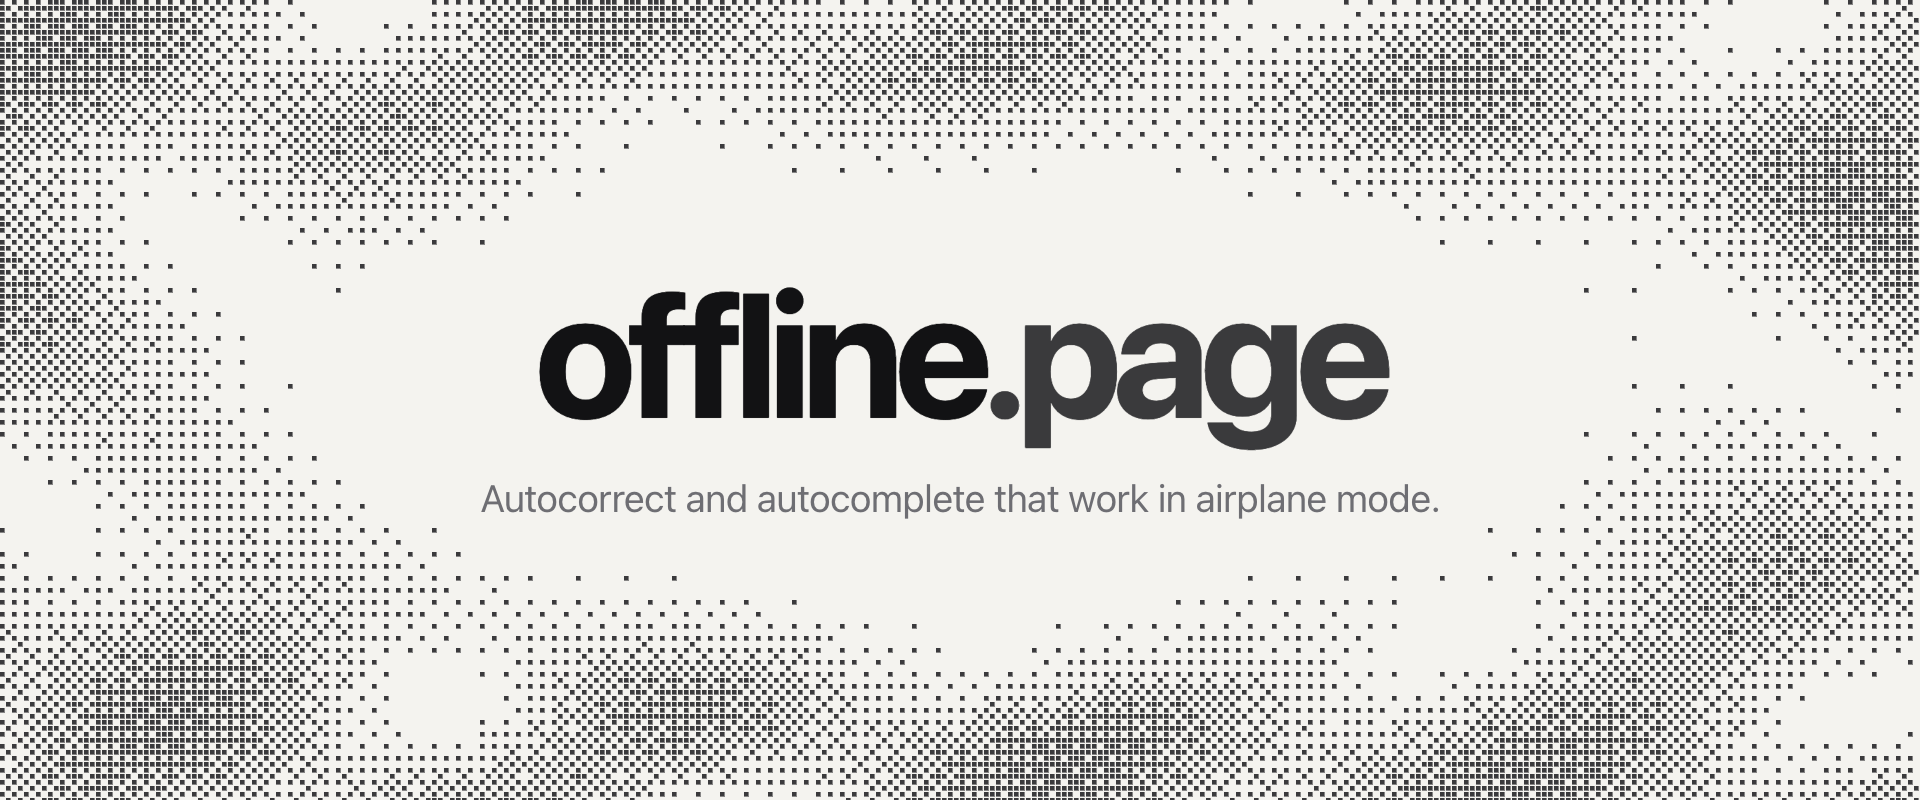
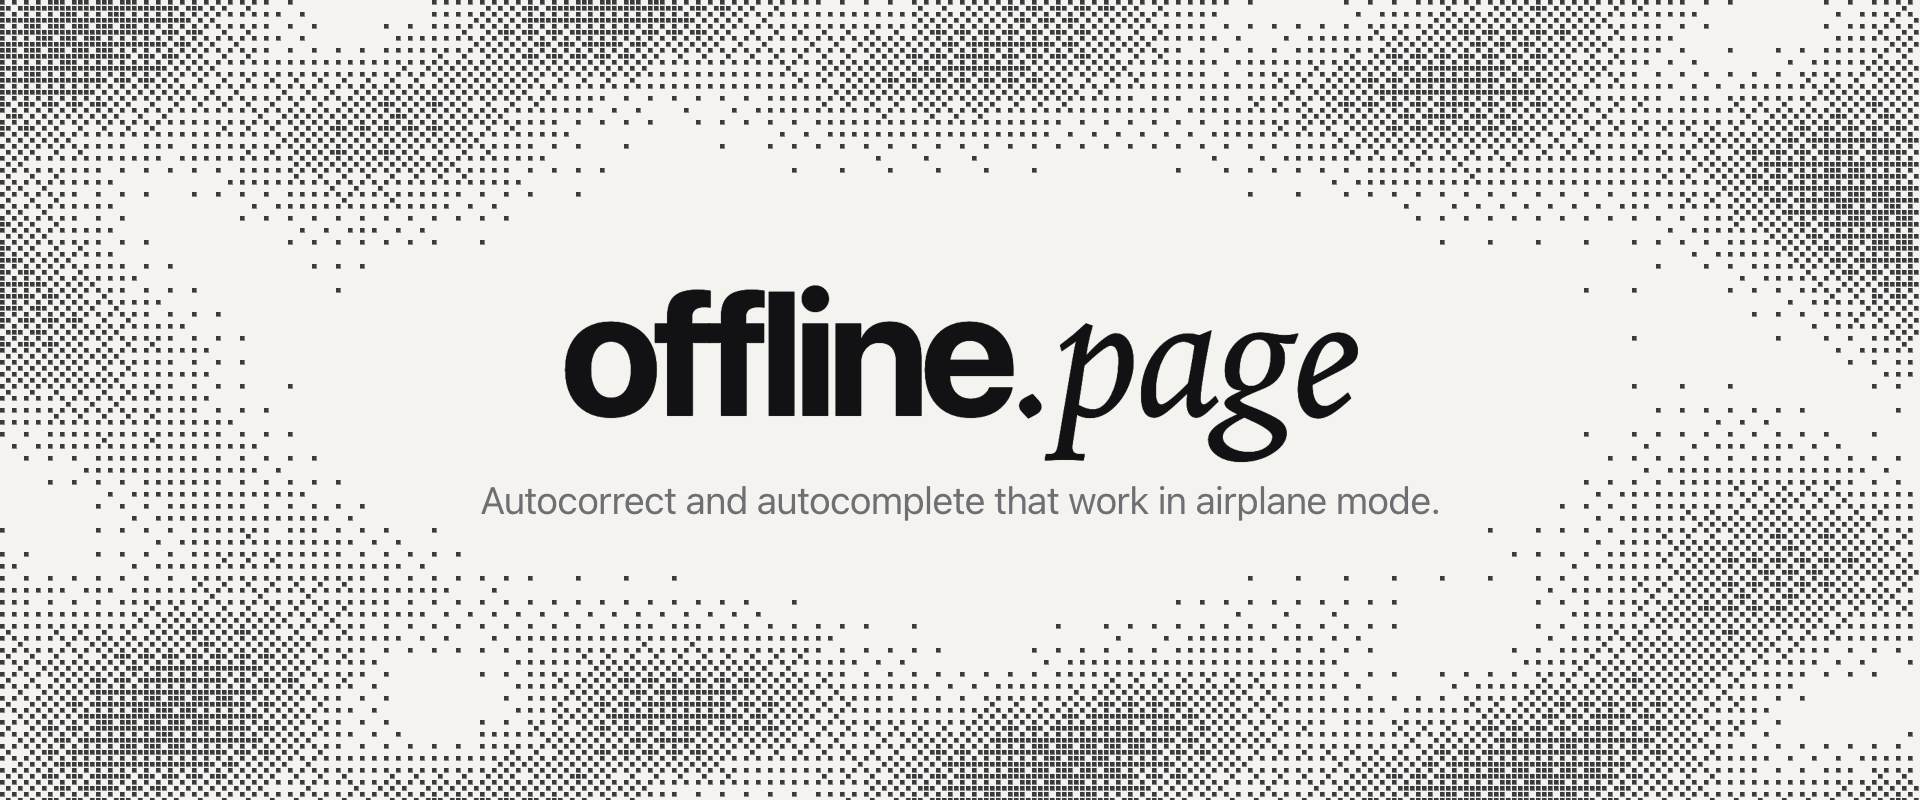
give .page, fix and next their own type and color in the brand images

Changed region(s): [[0.25, 0.3438, 0.75, 0.6562]]

diff --git a/brand/src/title.html b/brand/src/title.html
@@ -1,7 +1,12 @@
 <!doctype html><html><head><meta charset="utf-8"><script src="dither.js"></script><link rel="stylesheet" href="brand.css"><style>
 .content{display:flex;flex-direction:column;align-items:center;justify-content:center;text-align:center;padding:0 48px 8px}
 .name{font-weight:700;letter-spacing:-.05em;line-height:1}
-.name em{font-style:normal;color:var(--purple)}
+/* The second half of each name hints at what it does: .page is the paper, fix is a corrected word, next is a suggestion. */
+.name .write{font-family:var(--serif);font-weight:500;letter-spacing:-.02em;margin-left:.02em}
+.name .page{font-style:italic;color:var(--ink)}
+.name .fix{color:#7b1fe0;text-decoration:underline;text-decoration-thickness:.055em;text-underline-offset:.13em;text-decoration-color:rgb(123 31 224 / .55)}
+.name .next{color:#a1a1a6}
+.name .caret{display:inline-block;width:.045em;height:.82em;background:#0066cc;vertical-align:-.04em;margin:0 .03em 0 .05em;border-radius:1px}
 .line{color:var(--sub);letter-spacing:-.01em;margin-top:18px}
 </style></head><body>
 <canvas class="layer" id="band"></canvas>
@@ -9,10 +14,10 @@
 <script>
 // One template for every brand image: a centered name and one line over a dithered wave field. Mono, light.
 const IMAGES = {
-  banner:   { name: "offline<em>.page</em>", line: "Autocorrect and autocomplete that work in airplane mode.", size: 88 },
-  social:   { name: "offline<em>.page</em>", line: "Writes with you, even in airplane mode.", size: 76 },
-  tinyfix:  { name: "tinyfix", line: "Autocorrect that reads both sides of a word.", size: 104 },
-  tinynext: { name: "tinynext", line: "Suggests the next few words. Tab to take them.", size: 104 },
+  banner:   { name: 'offline<span class="write page">.page</span>', line: "Autocorrect and autocomplete that work in airplane mode.", size: 88 },
+  social:   { name: 'offline<span class="write page">.page</span>', line: "Writes with you, even in airplane mode.", size: 76 },
+  tinyfix:  { name: 'tiny<span class="write fix">fix</span>', line: "Autocorrect that reads both sides of a word.", size: 104 },
+  tinynext: { name: 'tiny<span class="caret"></span><span class="write next">next</span>', line: "Suggests the next few words. Tab to take them.", size: 104 },
 };
 const params = new URLSearchParams(location.search);
 const id = params.get("id");
